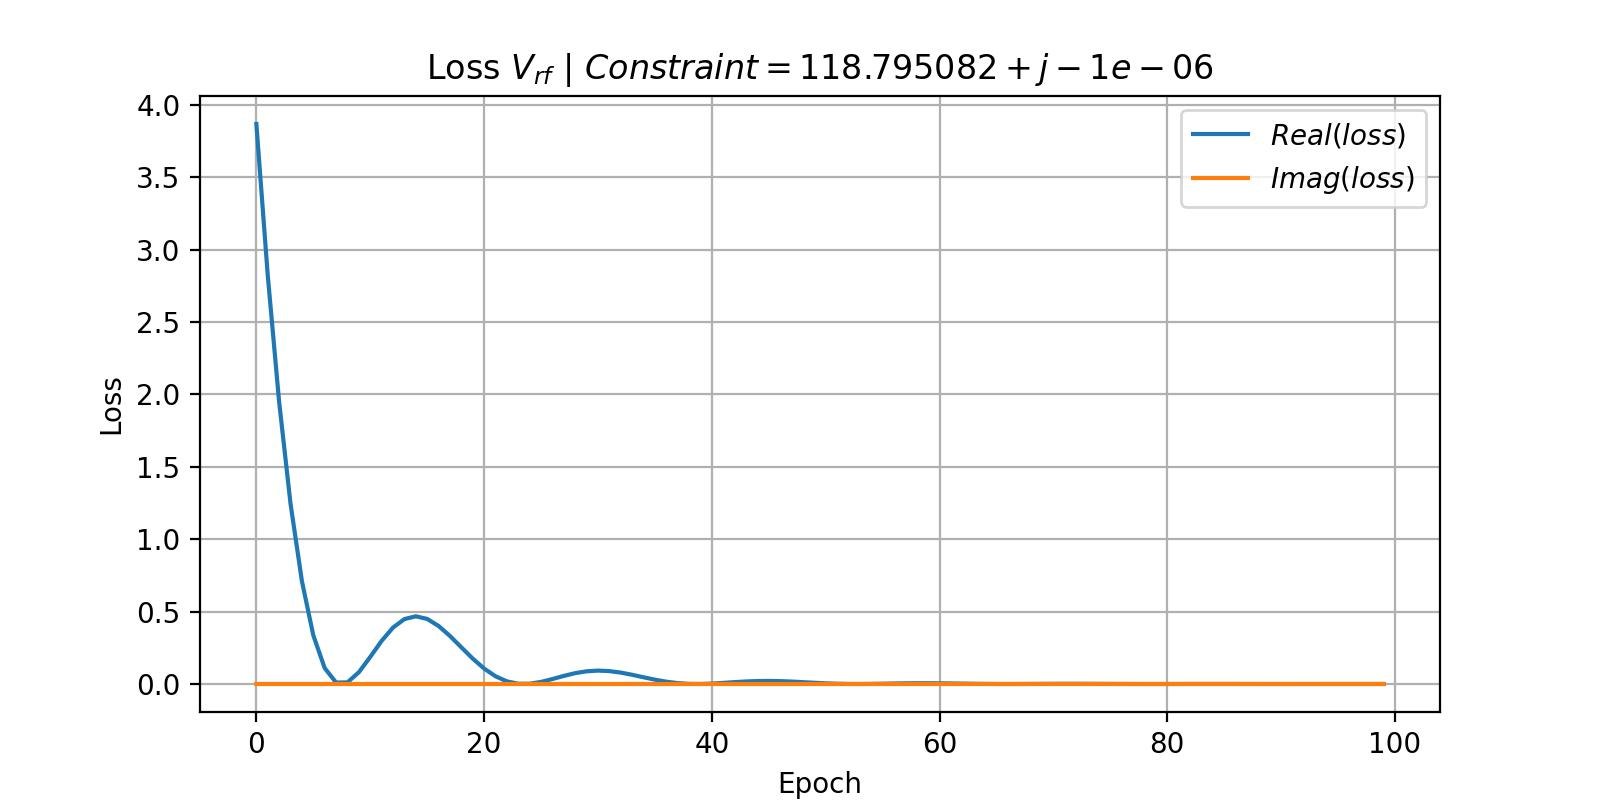
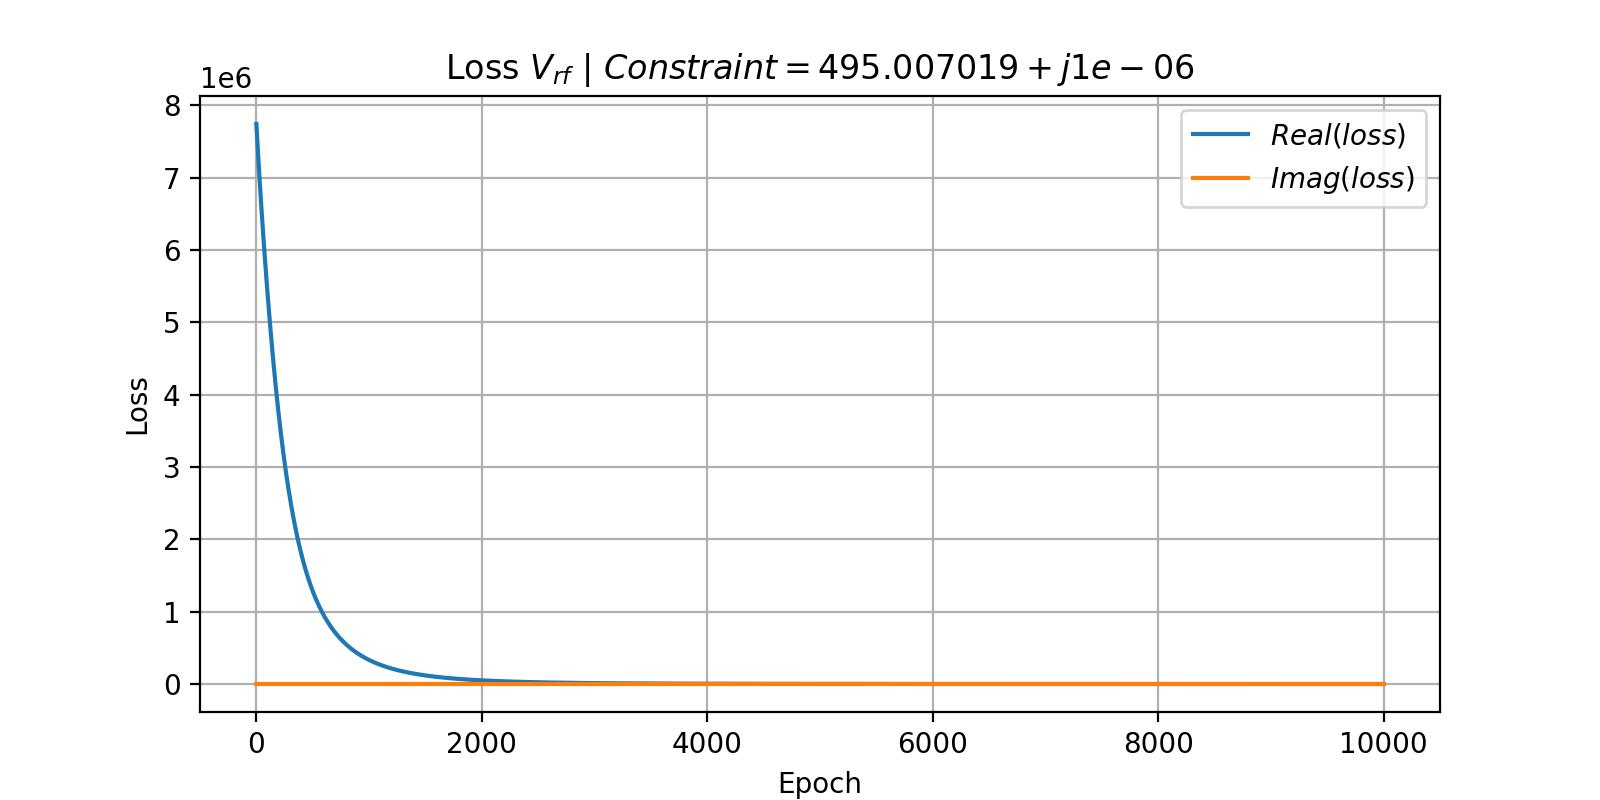
bug fix :|

diff --git a/PrecoderNet/environemt/module.py b/PrecoderNet/environemt/module.py
@@ -34,7 +34,7 @@ class Environment:
         self.n_ray: int = n_ray  # Scattering Rays
 
         self.size_v_bb: tuple[int] = (self.n_t_rf, self.n_s)
-        self.size_v_rf: tuple[int] = (self.n_t_rf, self.n_s)
+        self.size_v_rf: tuple[int] = (self.n_t, self.n_t_rf)
         self.size_w_rf: tuple[int] = (self.n_r, self.n_r_rf)
 
         self.v_rf_a: float = v_rf_a
@@ -118,8 +118,6 @@ class Environment:
         self.w_rf = self._reshape(*self._half(w_rf), self.size_w_rf)
         self.w_rf = self.w_rf / np.abs(self.w_rf)
         self.w_bb = self._calc_w_bb()
-        if self.constraint() >= self.P:
-            self.v_rf = self._calc_v_rf()
         
         return self.get_state(), self._reward()
 
@@ -143,9 +141,8 @@ class Environment:
     def _calc_psi(self) -> np.ndarray:
         h = self.channel_matrix
         v_t = self._calc_v_t()
-
         a = (1 - self.beta)
-        b = h @ H(v_t) @ H(h)
+        b = h @ v_t @ H(v_t) @ H(h)
         c = (self.beta * self.P + self.var) * np.eye(self.n_r)
 
         return a * b + c

diff --git a/example.py b/example.py
@@ -6,7 +6,7 @@ from PrecoderNet.environemt import Environment, plot_loss
 from PrecoderNet.random_process import OrnsteinUhlenbeckProcess
 
 env = Environment(**ENV_CONFIG)
-plot_loss(env)
+plot_loss(env).savefig("results/v_rf_loss.jpg")
 k = env.get_layer_size()
 random_process = OrnsteinUhlenbeckProcess(
     size=k,
@@ -15,12 +15,13 @@ random_process = OrnsteinUhlenbeckProcess(
     sigma=0.2
 )
 ddpg = DDPG(
-    Actor(k, k, (512, 512, 512)),
-    Critic(k, k, (512, 512, 512)),
+    Actor(k, k, (256, 256, 256)),
+    Critic(k, k, (256, 256, 256)),
     MEM_MAX_LEN,
     MEM_BATCH_SIZE,
     random_process
 )
+
 Trainer(env, ddpg, EPOCHS) \
     .train() \
     .save_progress_plot(RESULT_FOLDER)

diff --git a/config.py b/config.py
@@ -1,27 +1,27 @@
 import numpy as np
-n_s = 6
 n_r = 32
-size = (n_r, n_s)
+n_t = 128
+size = (n_r, n_t)
 channel_matrix = np.random.rand(*size) * 50.0j
 channel_matrix += np.random.rand(*size) * 50.0
 
 ENV_CONFIG = {
-    "P": 100,
-    "var": 1,
+    "P": 500,
+    "var": 50,
     "beta": 0.1,
     "n_t": 128,
     "n_r": n_r,
-    "n_s": n_s,
+    "n_s": 6,
     "n_t_rf": 6,
     "n_r_rf": 6,
     "n_cl": 8,
     "n_ray": 10,
     "v_rf_a": 100,
-    "v_rf_iteration": 1000,
+    "v_rf_iteration": 10_000,
     "channel_matrix": channel_matrix
 }
 
 EPOCHS = 100
 MEM_MAX_LEN = 1024
-MEM_BATCH_SIZE = 16
+MEM_BATCH_SIZE = 8
 RESULT_FOLDER = "./results/results.jpg"

diff --git a/PrecoderNet/trainer.py b/PrecoderNet/trainer.py
@@ -50,8 +50,7 @@ class Trainer:
     def log(self):
         reward = self.rewards[-1]
         efficiency = self.efficiency[-1]
-        constraint = self.env.constraint()
-        return f"reward = {round(reward, 3)} | efficiency = {round(efficiency, 3)} | constraint = {round(constraint, 3)}"
+        return f"reward = {round(reward, 3)} | efficiency = {round(efficiency, 3)}"
 
     def check_constraint(self):
         if self.env.constraint() <= self.env.P:
